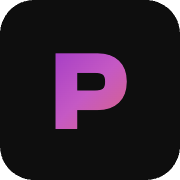
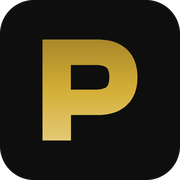
Iconos de marca: del gradiente Meta al oro, y la P de la tipografía real
El favicon seguía siendo violeta → rosa → naranja. Ese gradiente dejó de
representar a la marca hace tiempo: se replegó a la barra de probabilidad del
informe y el acento pasó a ser el oro (tokens.css §TEMA). El icono era el sitio
más visible donde el malva seguía diciendo que la marca es Meta.

No estaba solo. Auditado el proyecto entero, quedaban cuatro:
· public/favicon.svg          → oro           (este commit)
· public/icon-192 / 512 / apple-touch-icon.png → oro   (este commit)
· public/wordmark.svg         → oro           (este commit). Es el de uso
  EXTERNO —firmas de email, decks, prensa—, así que era el que más lejos
  llegaba con el color equivocado.
· public/og.html              → oro           (este commit)
Los que quedan en tokens.css y projects.js son usos legítimos: la barra del
informe y los acentos por caso. No se tocan.

⚠ public/og.jpg SIGUE SIENDO EL ANTIGUO. Es la imagen que se ve al compartir el
sitio y se genera capturando og.html en el navegador; el panel de este entorno
devuelve capturas en negro, así que no he podido rehacerla. Queda anotado en la
cabecera de la plantilla.

LA P AHORA ES LA DE VERDAD. Era un trazado aproximado dibujado a mano; ahora sale
de ClashDisplay-Bold.woff2, la misma tipografía del logotipo de la cabecera, así
que icono y logo son la misma letra. Lo hace scripts/media/build-icons.py, que
extrae el glifo con fontTools y lo aplana a polígonos — en esta máquina no hay
[…]

diff --git a/public/og.html b/public/og.html
@@ -9,6 +9,12 @@
       bundle y no puede importar tokens.css.
       Si cambian los tokens, hay que actualizar los hex de aquí a mano.
 
+      ⚠ 2026-08-16: los dos degradados pasaron del gradiente Meta al ORO. El malva
+      dejó de ser el acento del sitio hace tiempo (se replegó a la barra del
+      informe) y esta plantilla era, con el favicon y el wordmark, de los últimos
+      sitios donde seguía representando a la marca.
+      public/og.jpg SIGUE SIENDO EL ANTIGUO: hay que volver a capturarlo.
+
       USO: abrir en el navegador, capturar el rectángulo de 1200×630 y guardar como
       public/og.jpg (calidad 80). O usar el generador de la tarea 27, que rasteriza
       este mismo diseño con las fuentes ya self-hosted.
@@ -46,7 +52,7 @@
         text-transform: uppercase;
       }
       .og__accent {
-        background: linear-gradient(90deg, #7B19C8, #C559C4, #F57327);
+        background: linear-gradient(90deg, #8A6A1F, #D4AF37, #F2DFA6);
         -webkit-background-clip: text; background-clip: text;
         -webkit-text-fill-color: transparent; color: transparent;
       }
@@ -60,7 +66,7 @@
       /* La única aplicación del gradiente compite con nada aquí: es una imagen suelta. */
       .og__bar {
         position: absolute; left: 0; right: 0; bottom: 0; height: 6px;
-        background: linear-gradient(90deg, #7B19C8, #C559C4, #F57327);
+        background: linear-gradient(90deg, #8A6A1F, #D4AF37, #F2DFA6);
       }
     </style>
   </head>

diff --git a/scripts/media/build-icons.py b/scripts/media/build-icons.py
@@ -1,0 +1,193 @@
+#!/usr/bin/env python3
+"""
+Genera el favicon y los iconos de aplicación a partir de la TIPOGRAFÍA REAL.
+
+    .venv/bin/pip install "fonttools[woff]"
+    .venv/bin/python scripts/media/build-icons.py
+
+Por qué existe y no está dibujado a mano: la «P» del icono es la MISMA que la del
+logotipo de la cabecera, sacada de ClashDisplay-Bold.woff2. Antes era un trazado
+aproximado y se notaba al ponerlos uno al lado del otro.
+
+⚠ COLOR. El icono anterior usaba el gradiente Meta (violeta → rosa → naranja),
+que dejó de ser el acento del sitio: se replegó a la barra del informe y el
+acento pasó a ser el oro (tokens.css §TEMA). Era el último sitio del proyecto
+donde el malva seguía representando a la marca.
+
+ORO PLANO en el favicon, gradiente en los iconos grandes. Medido a 16 px —el
+tamaño real de una pestaña— el oro plano da 6,2:1 de contraste medio contra el
+fondo del icono y el gradiente 5,8:1. La diferencia es pequeña y por sí sola no
+decidiría: lo que inclina la balanza es que a 16 px un gradiente de tres paradas
+cae en unos 9 px de alto y no llega a leerse COMO gradiente, así que se paga un
+extremo más apagado sin ganar nada a cambio. En 192 y 512 sí hay píxeles para que
+se vea como lo que es, y ahí se conserva.
+"""
+
+import json
+from pathlib import Path
+
+from PIL import Image, ImageDraw
+from fontTools.pens.recordingPen import RecordingPen
+from fontTools.ttLib import TTFont
+
+ROOT = Path(__file__).resolve().parents[2]
+OUT = ROOT / "public"
+FONT = OUT / "fonts" / "ClashDisplay-Bold.woff2"
+
+# Tokens de src/styles/tokens.css. Excepción documentada de PLAN.md §9.2: ni un
+# SVG estático ni un PNG leen custom properties.
+FONDO = "#0E0E0E"
+ORO = "#D4AF37"          # --gold
+ORO_OSCURO = "#8A6A1F"   # --gold-deep
+ORO_CLARO = "#F2DFA6"    # --gold-soft
+
+
+def contorno_p(pasos=24):
+    """La «P» de Clash Display Bold, aplanada a polígonos.
+
+    Se aplana aquí en vez de usar un rasterizador de SVG porque en esta máquina no
+    hay ninguno, y porque hacen falta los PNG de todas formas.
+    """
+    fuente = TTFont(FONT)
+    glifo = fuente.getBestCmap()[ord("P")]
+    pluma = RecordingPen()
+    fuente.getGlyphSet()[glifo].draw(pluma)
+
+    def bezier(p0, puntos, grado):
+        """de Casteljau para cuadráticas (grado 2) y cúbicas (grado 3)."""
+        ctrl = [p0] + list(puntos)
+        salida = []
+        for i in range(1, pasos + 1):
+            t = i / pasos
+            tmp = ctrl[:]
+            for _ in range(grado):
+                tmp = [
+                    (a[0] + (b[0] - a[0]) * t, a[1] + (b[1] - a[1]) * t)
+                    for a, b in zip(tmp, tmp[1:])
+                ]
+            salida.append(tmp[0])
+        return salida
+
+    contornos, actual, cursor = [], [], (0, 0)
+    for op, args in pluma.value:
+        if op == "moveTo":
+            if actual:
+                contornos.append(actual)
+            cursor = args[0]
+            actual = [cursor]
+        elif op == "lineTo":
+            cursor = args[0]
+            actual.append(cursor)
+        elif op == "qCurveTo":
+            # TrueType encadena cuadráticas con puntos implícitos entre controles.
+            pts = list(args)
+            fin = pts[-1]
+            controles = pts[:-1]
+            for i, c in enumerate(controles):
+                siguiente = (
+                    fin
+                    if i == len(controles) - 1
+                    else ((c[0] + controles[i + 1][0]) / 2, (c[1] + controles[i + 1][1]) / 2)
+                )
+                actual.extend(bezier(cursor, [c, siguiente], 2))
+                cursor = siguiente
+        elif op == "curveTo":
+            actual.extend(bezier(cursor, list(args), 3))
+            cursor = args[-1]
+        elif op == "closePath" and actual:
+            contornos.append(actual)
+            actual = []
+    if actual:
+        contornos.append(actual)
+    return contornos
+
+
+def dibujar(lado, gradiente):
+    """Un icono cuadrado: fondo redondeado y la P centrada."""
+    esc = 8  # se dibuja en grande y se reduce: es el antialiasing del pobre, y basta
+    L = lado * esc
+    im = Image.new("RGBA", (L, L), (0, 0, 0, 0))
+    d = ImageDraw.Draw(im)
+    d.rounded_rectangle([0, 0, L - 1, L - 1], radius=int(L * 0.1875), fill=FONDO)
+
+    contornos = contorno_p()
+    xs = [p[0] for c in contornos for p in c]
+    ys = [p[1] for c in contornos for p in c]
+    ancho, alto = max(xs) - min(xs), max(ys) - min(ys)
+
+    # La P ocupa el 56% del lado. Más grande toca las esquinas del redondeo;
+    # más pequeña deja el icono con aire de placa y pierde presencia en la pestaña.
+    k = (L * 0.56) / alto
+    dx = (L - ancho * k) / 2 - min(xs) * k
+    dy = (L + alto * k) / 2 + min(ys) * k  # +y arriba en la fuente, abajo en la imagen
+
+    # Máscara del glifo. Se pinta aparte para poder rellenarla con un degradado.
+    mascara = Image.new("L", (L, L), 0)
+    dm = ImageDraw.Draw(mascara)
+    for i, c in enumerate(contornos):
+        pts = [(p[0] * k + dx, dy - p[1] * k) for p in c]
+        # El contrapunzón de la P (el hueco) es el segundo contorno: se resta.
+        dm.polygon(pts, fill=255 if i == 0 else 0)
+
+    if gradiente:
+        relleno = Image.new("RGBA", (L, L))
+        dg = ImageDraw.Draw(relleno)
+        a = tuple(int(ORO_OSCURO[i:i + 2], 16) for i in (1, 3, 5))
+        b = tuple(int(ORO[i:i + 2], 16) for i in (1, 3, 5))
+        c = tuple(int(ORO_CLARO[i:i + 2], 16) for i in (1, 3, 5))
+        for y in range(L):
+            t = y / (L - 1)
+            ini, fin, u = (a, b, t * 2) if t < 0.5 else (b, c, (t - 0.5) * 2)
+            dg.line([(0, y), (L, y)], fill=tuple(int(ini[j] + (fin[j] - ini[j]) * u) for j in range(3)) + (255,))
+    else:
+        relleno = Image.new("RGBA", (L, L), ORO)
+
+    im.paste(relleno, (0, 0), mascara)
+    return im.resize((lado, lado), Image.LANCZOS)
+
+
+def svg():
+    """favicon.svg — el que ven las pestañas. Oro plano, por el motivo de arriba."""
+    contornos = contorno_p(pasos=10)
+    xs = [p[0] for c in contornos for p in c]
+    ys = [p[1] for c in contornos for p in c]
+    ancho, alto = max(xs) - min(xs), max(ys) - min(ys)
+    k = (64 * 0.56) / alto
+    dx = (64 - ancho * k) / 2 - min(xs) * k
+    dy = (64 + alto * k) / 2 + min(ys) * k
+
+    partes = []
+    for c in contornos:
+        pts = [(round(p[0] * k + dx, 2), round(dy - p[1] * k, 2)) for p in c]
+        partes.append("M" + " L".join(f"{x},{y}" for x, y in pts) + " Z")
+
+    return f"""<svg xmlns="http://www.w3.org/2000/svg" viewBox="0 0 64 64" width="64" height="64">
+  <!-- Generado por scripts/media/build-icons.py. No editar a mano.
+       La P sale de ClashDisplay-Bold, la misma tipografia del logotipo.
+       Colores de tokens.css: fondo {FONDO} y oro {ORO}.
+       Oro PLANO y no el gradiente de marca: a 16px el gradiente no llega a
+       leerse como tal y solo aporta un extremo mas apagado. -->
+  <rect width="64" height="64" rx="12" fill="{FONDO}"/>
+  <path fill-rule="evenodd" fill="{ORO}" d="{' '.join(partes)}"/>
+</svg>
+"""
+
+
+if __name__ == "__main__":
+    print("\n  Iconos desde ClashDisplay-Bold\n")
+    (OUT / "favicon.svg").write_text(svg())
+    print(f"  · favicon.svg           64×64    oro plano")
+
+    for nombre, lado, grad in (
+        ("apple-touch-icon.png", 180, True),
+        ("icon-192.png", 192, True),
+        ("icon-512.png", 512, True),
+    ):
+        dibujar(lado, grad).save(OUT / nombre)
+        kb = (OUT / nombre).stat().st_size // 1024
+        print(f"  · {nombre:22s} {lado}×{lado}  {'gradiente':9s} {kb} KB")
+
+    # Prueba de legibilidad: el tamaño real de una pestaña.
+    dibujar(16, False).save("/tmp/favicon-16.png")
+    dibujar(16, True).save("/tmp/favicon-16-grad.png")
+    print("\n  prueba a 16px en /tmp/favicon-16*.png\n")
